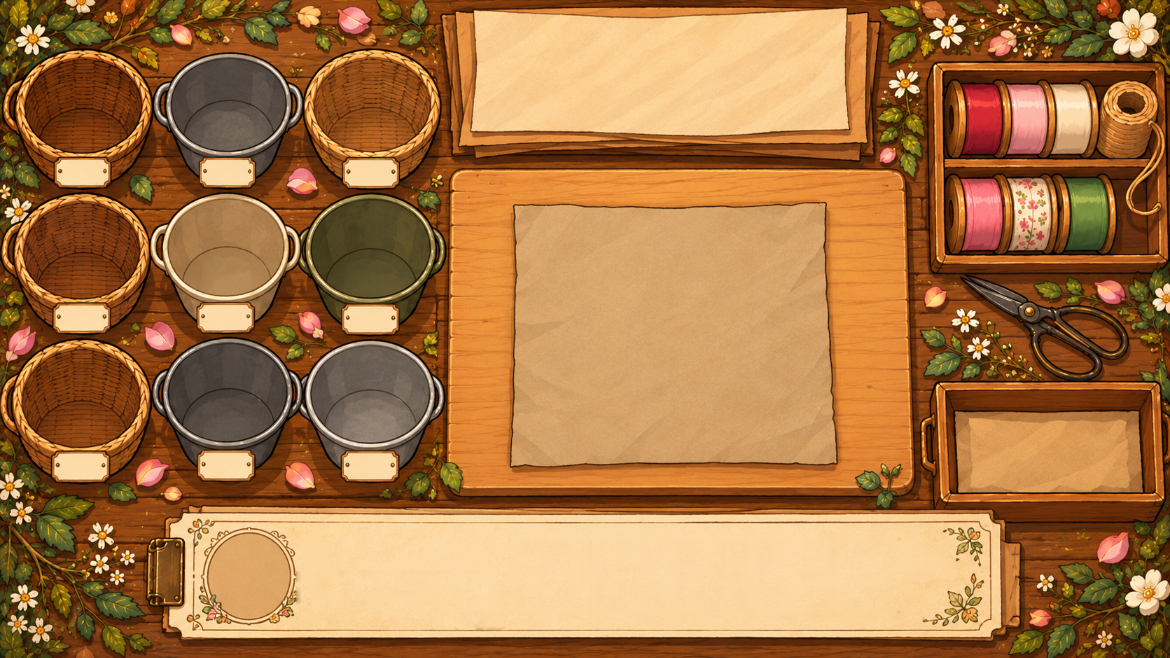
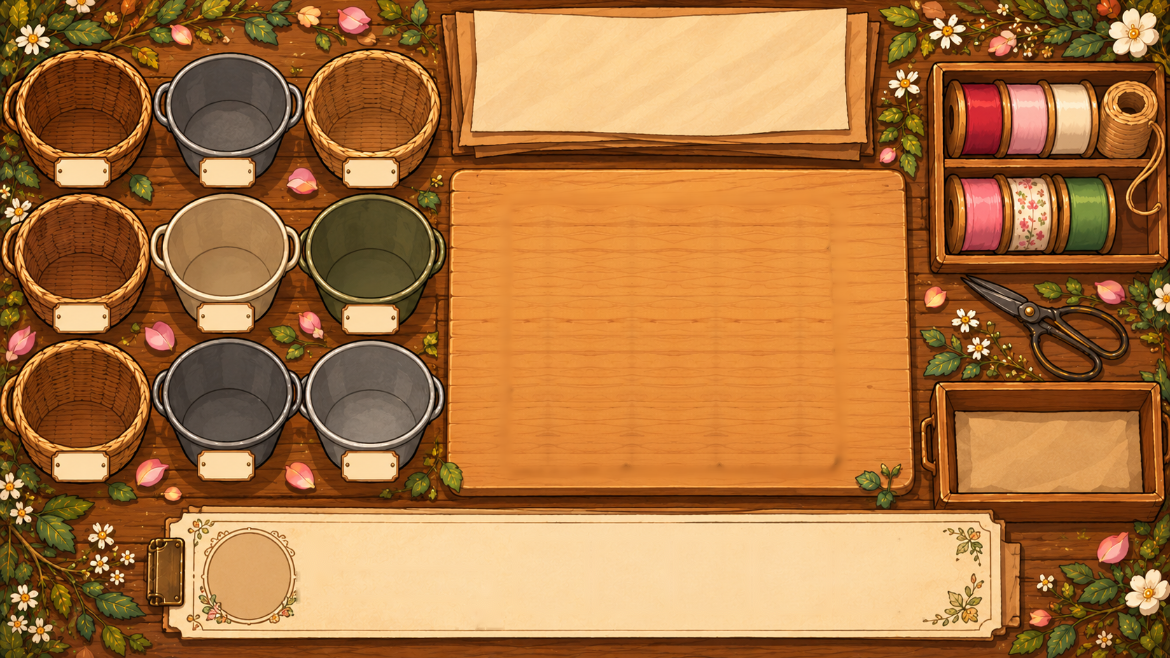
Bouquet sits on clean wood: painted sheet removed from mat, blooms rise out of the wrapper opening, soft shadow, prompt moved
Claude-Session: https://claude.ai/code/session_01KbwSo6yL3mitC5MkkWGPtA

Changed region(s): [[0.4308, 0.304, 0.7385, 0.7295]]

diff --git a/src/screens/BouquetScreen.js b/src/screens/BouquetScreen.js
@@ -60,7 +60,7 @@ const FLAP_TOP = PAPER_BOX.top + Math.round(0.42 * PAPER_BOX.h);   // where the 
 const BOW_COLOR = { ribbonRed: 'red', ribbonPink: 'pink', ribbonCream: 'cream', ribbonPinkFloral: 'pinkfloral', ribbonGreen: 'green', ribbonCreamFloral: 'creamfloral' };
 const WRAP_ART = { plain: 'wrapKraft', layered: 'wrapLayered', fancy: 'wrapLayered' };
 const WRAP_ASPECT = 640 / 590;                                       // height / width of the wrapped-bouquet pictures
-const WRAP_W = 330;
+const WRAP_W = 300;
 const WAIST = 0.79;                                                  // where the twine sits, as a fraction of the wrapper's height
 const FOLD_DEG = 20;                                                // tilt of the diagonal fold lines
 const TRAY = { cx: 1247, cy: 562, w: 247, h: 169 };  // the hand-over tray, bottom right
@@ -293,7 +293,7 @@ export default function BouquetScreen({ navigation }) {
               ))}
             </>
           )}
-          <View style={[styles.prompt, { left: fx(541), width: fx(547), top: fy(203) }]} pointerEvents="none">
+          <View style={[styles.prompt, { left: fx(541), width: fx(547), top: fy(step >= 3 ? 554 : 203) }]} pointerEvents="none">
             <Text style={styles.promptTxt} numberOfLines={1}>{prompt}</Text>
           </View>
 
@@ -393,16 +393,20 @@ function FadeOut({ hide, children }) {
 function Wrapped({ art, picks, left, top, w, h, ribbon, bow, fx }) {
   const o = useRef(new Animated.Value(0)).current;
   React.useEffect(() => { Animated.timing(o, { toValue: 1, duration: 380, useNativeDriver: false }).start(); }, []);
-  const FAN = [{ x: 0.32, y: 0.27, r: '-14deg' }, { x: 0.68, y: 0.27, r: '14deg' }, { x: 0.5, y: 0.17, r: '0deg' }];
-  const fz = w * 0.46;
+  const FAN = [{ x: 0.3, y: 0.22, r: '-16deg' }, { x: 0.7, y: 0.22, r: '16deg' }, { x: 0.5, y: 0.12, r: '0deg' }];
+  const fz = w * 0.4;
   const rw = w * 0.2, rh = w * 0.075, wy = top + h * WAIST + w * 0.01;
   return (
     <Animated.View pointerEvents="none" style={{ position: 'absolute', left: 0, top: 0, right: 0, bottom: 0, opacity: o }}>
+      <View style={{ position: 'absolute', left: left + w * 0.18, top: top + h * 0.9, width: w * 0.64, height: h * 0.12, borderRadius: w, backgroundColor: 'rgba(60,30,8,0.28)', ...(Platform.OS === 'web' ? { filter: 'blur(7px)' } : {}) }} />
       <Image source={art} style={[{ position: 'absolute', left, top, width: w, height: h }, SOFT]} resizeMode="contain" />
-      {picks.map((k, i) => (
-        <Image key={i} source={TRADE_IMAGES[TRADE_FLOWERS[k].img]} resizeMode="contain"
-          style={{ position: 'absolute', left: left + w * FAN[i].x - fz / 2, top: top + h * FAN[i].y - fz / 2, width: fz, height: fz, transform: [{ rotate: FAN[i].r }], zIndex: i === 2 ? 3 : 2 }} />
-      ))}
+      {/* the blooms rise out of the wrapper's opening: anything below the rim is hidden */}
+      <View style={{ position: 'absolute', left: left - w * 0.1, top: top - h * 0.2, width: w * 1.2, height: h * 0.2 + h * 0.34, overflow: 'hidden' }}>
+        {picks.map((k, i) => (
+          <Image key={i} source={TRADE_IMAGES[TRADE_FLOWERS[k].img]} resizeMode="contain"
+            style={[{ position: 'absolute', left: w * 0.1 + w * FAN[i].x - fz / 2, top: h * 0.2 + h * (FAN[i].y - 0.03) - fz / 2, width: fz, height: fz, transform: [{ rotate: FAN[i].r }], zIndex: i === 2 ? 3 : 2 }, SOFT]} />
+        ))}
+      </View>
       {ribbon && <TiedRibbon x={left + (w - rw) / 2} y={wy} w={rw} h={rh} source={ribbon} />}
       {bow && <Image source={bow} resizeMode="contain" style={[{ position: 'absolute', left: left + w * 0.5 - fx(58), top: wy - fx(42), width: fx(116), height: fx(88), zIndex: 9 }, SOFT]} />}
     </Animated.View>
